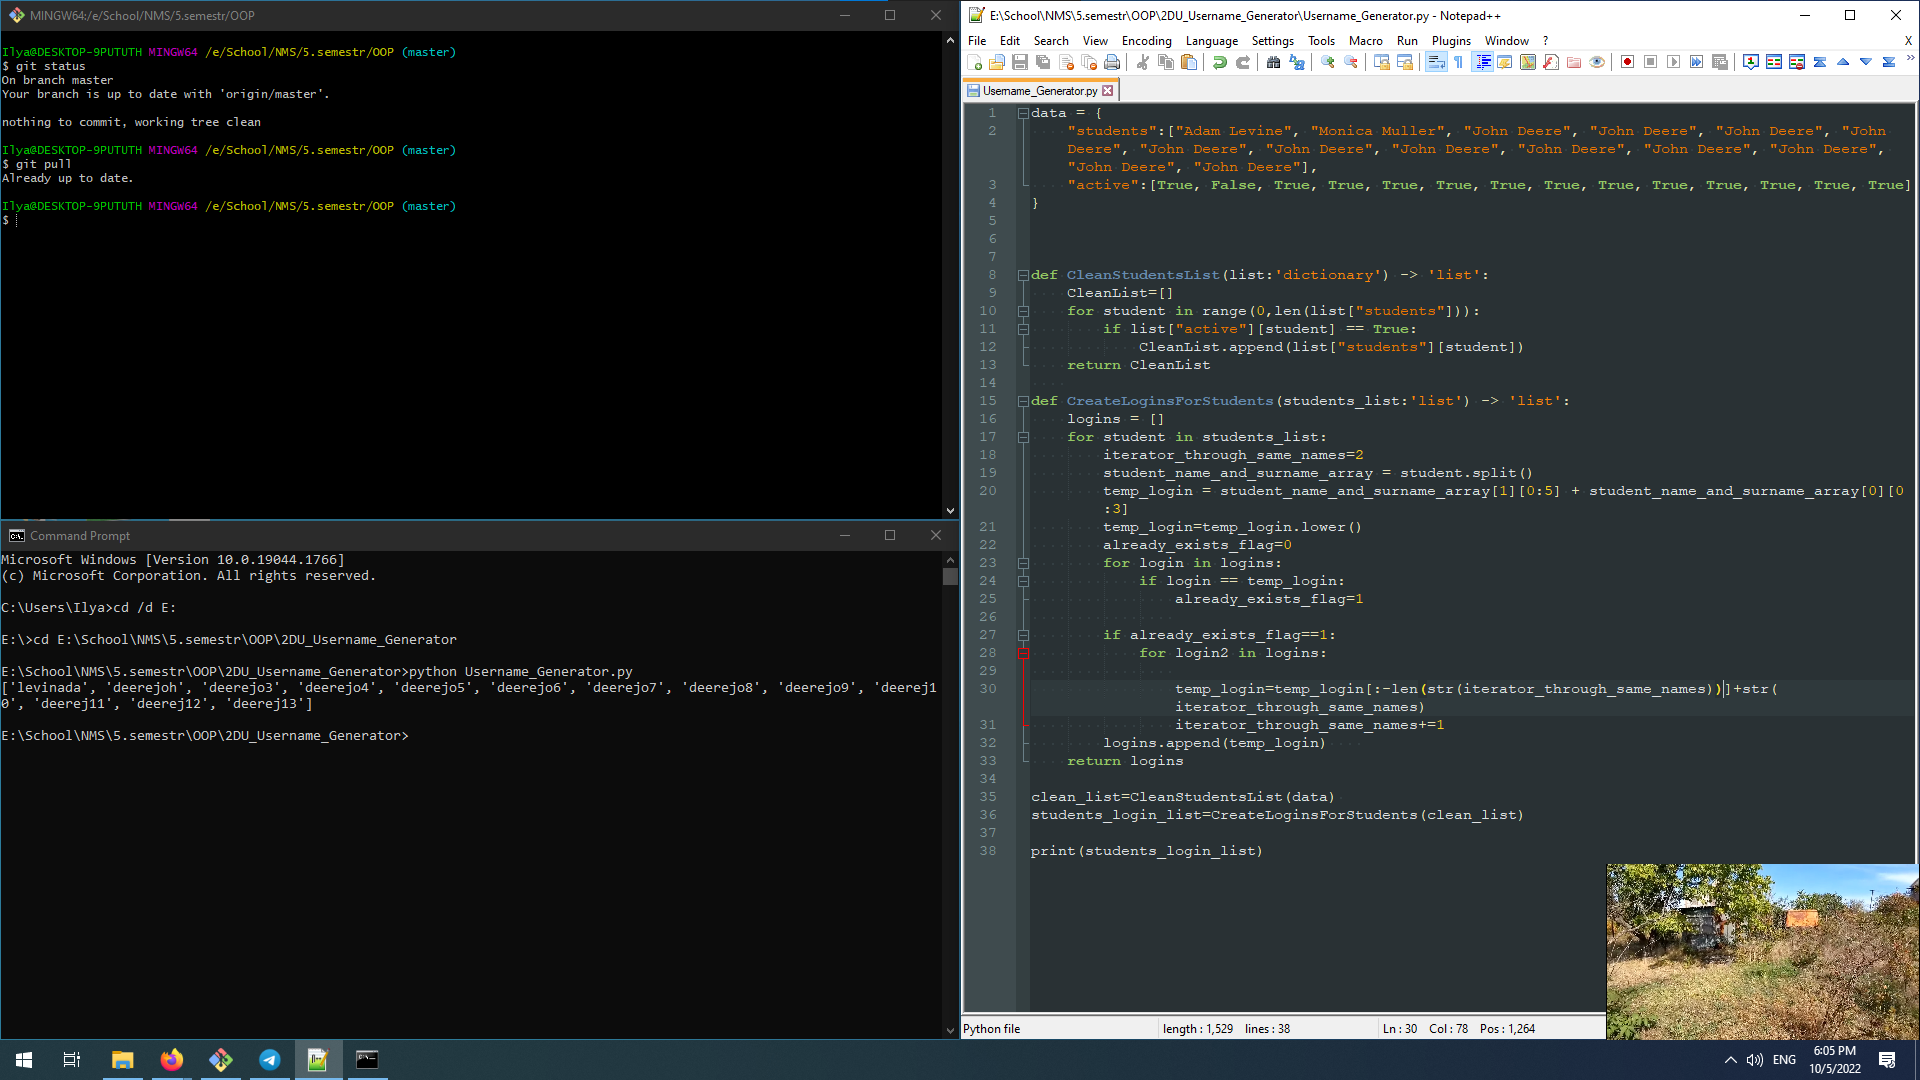
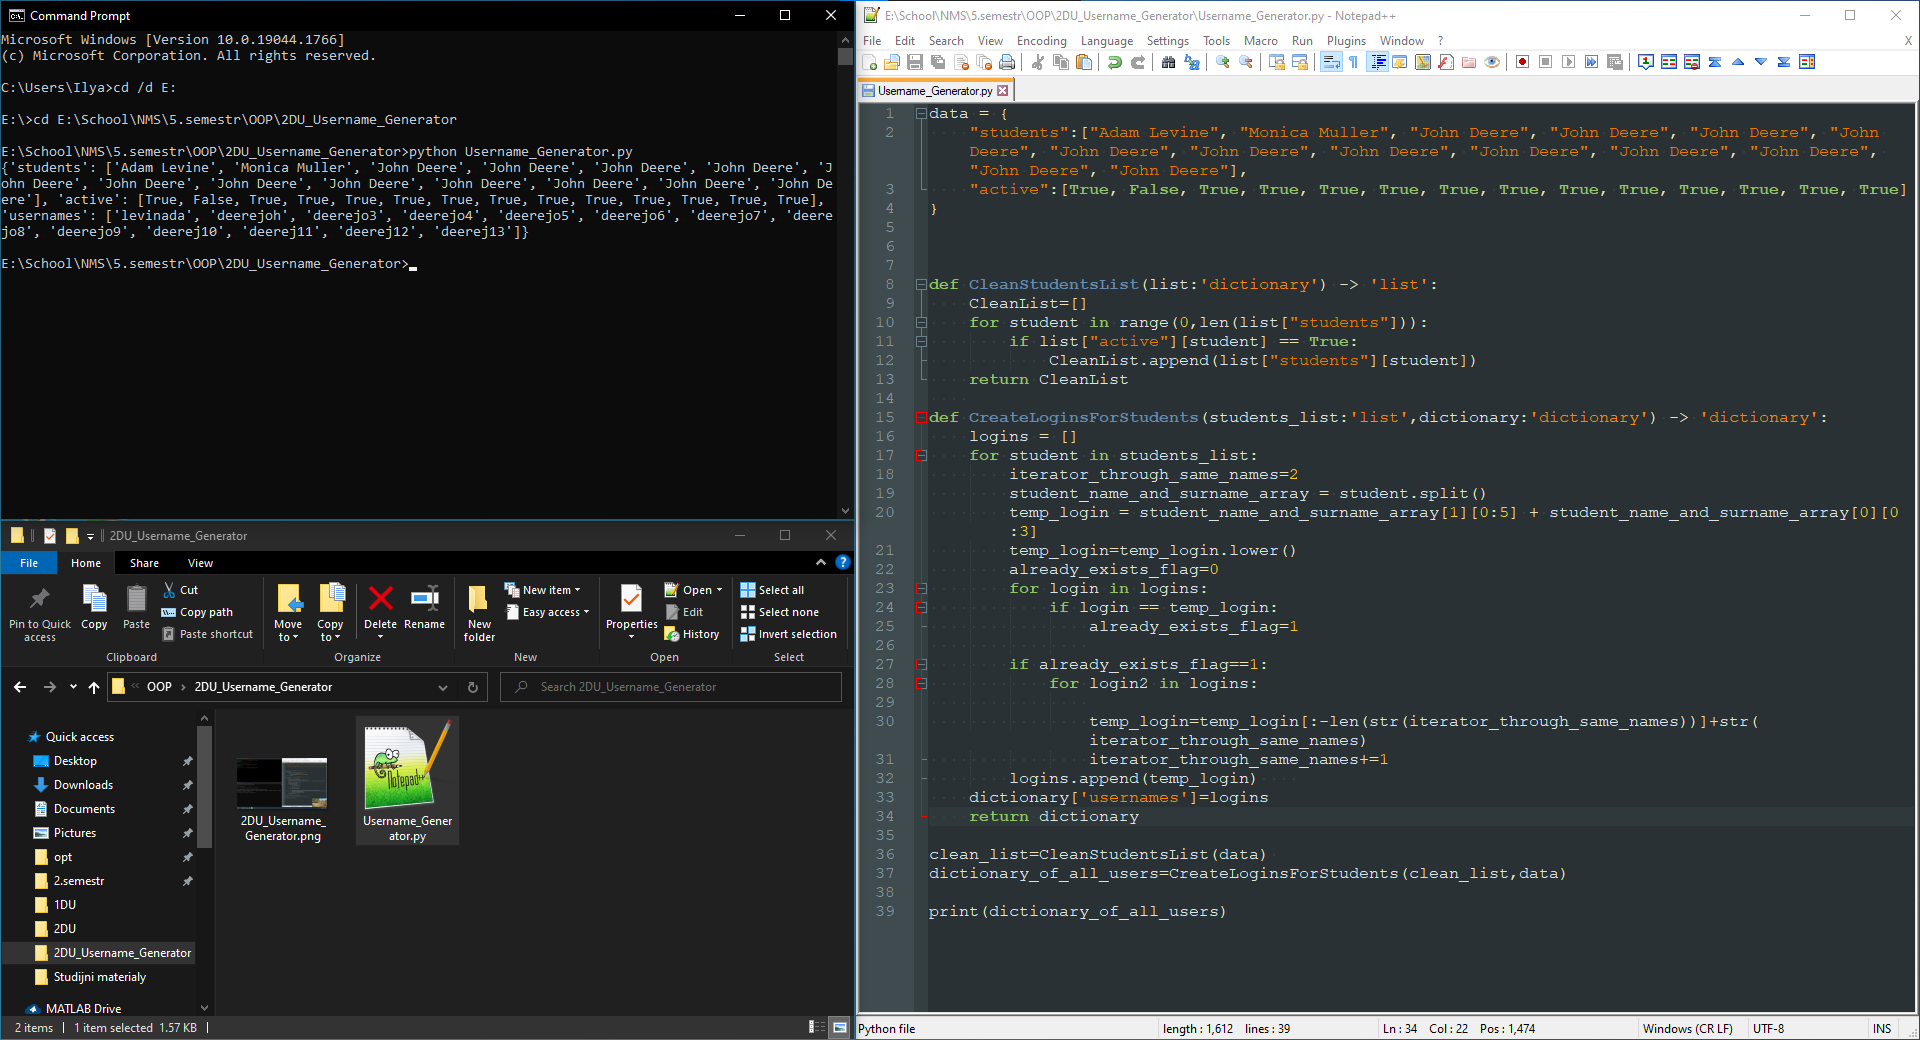
changing code according to the task

Changed region(s): [[0.0, 0.0, 1.0, 1.0], [0.8438, 0.4308, 1.0, 0.4615], [0.7812, 0.6769, 0.875, 0.7077]]

diff --git a/2DU_Username_Generator/Username_Generator.py b/2DU_Username_Generator/Username_Generator.py
@@ -12,7 +12,7 @@ def CleanStudentsList(list:'dictionary') -> 'list':
             CleanList.append(list["students"][student])
     return CleanList
     
-def CreateLoginsForStudents(students_list:'list') -> 'list':
+def CreateLoginsForStudents(students_list:'list',dictionary:'dictionary') -> 'dictionary':
     logins = []
     for student in students_list:
         iterator_through_same_names=2
@@ -30,9 +30,10 @@ def CreateLoginsForStudents(students_list:'list') -> 'list':
                 temp_login=temp_login[:-len(str(iterator_through_same_names))]+str(iterator_through_same_names)
                 iterator_through_same_names+=1
         logins.append(temp_login)    
-    return logins
+    dictionary['usernames']=logins
+    return dictionary
 
 clean_list=CleanStudentsList(data) 
-students_login_list=CreateLoginsForStudents(clean_list)
+dictionary_of_all_users=CreateLoginsForStudents(clean_list,data)
 
-print(students_login_list)
+print(dictionary_of_all_users)
